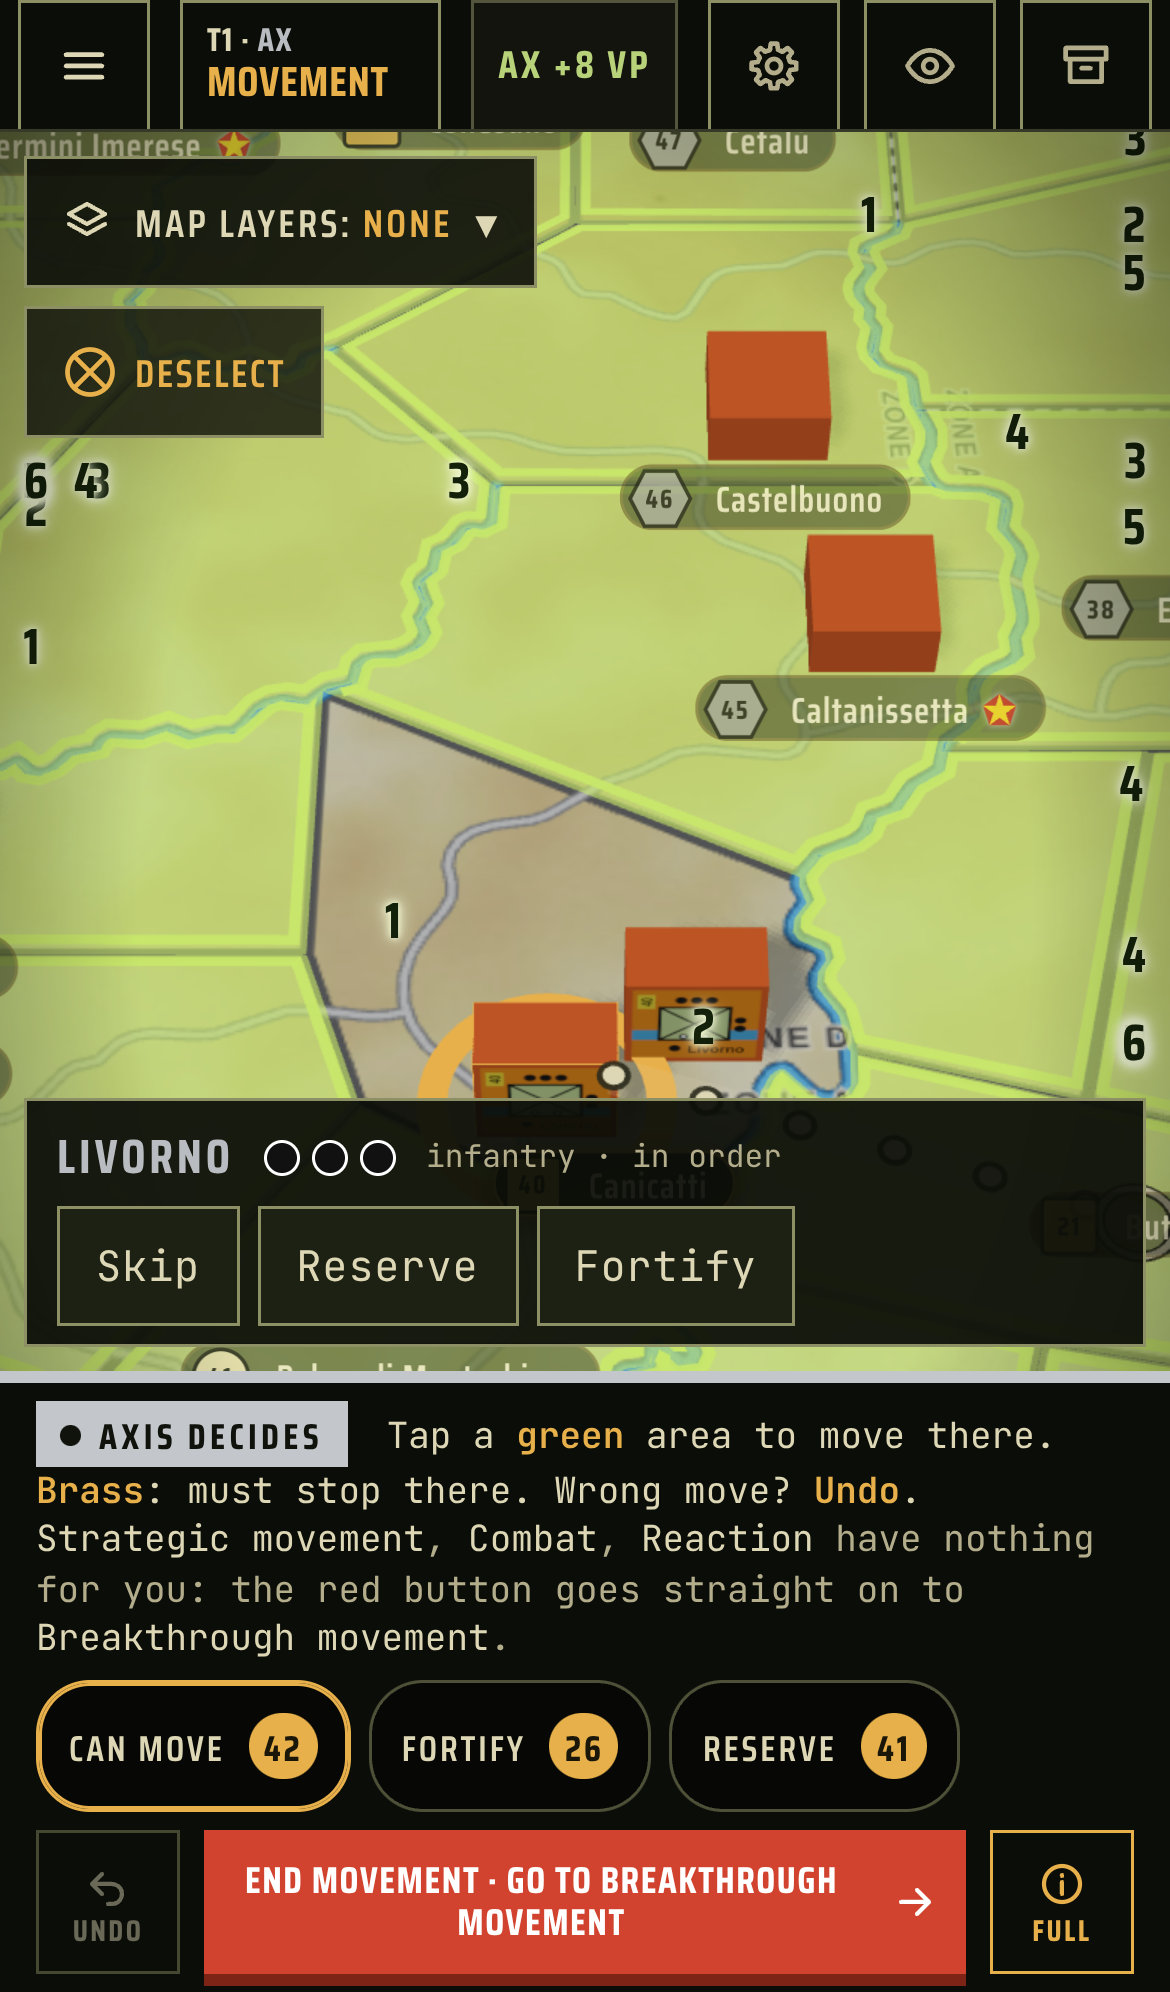
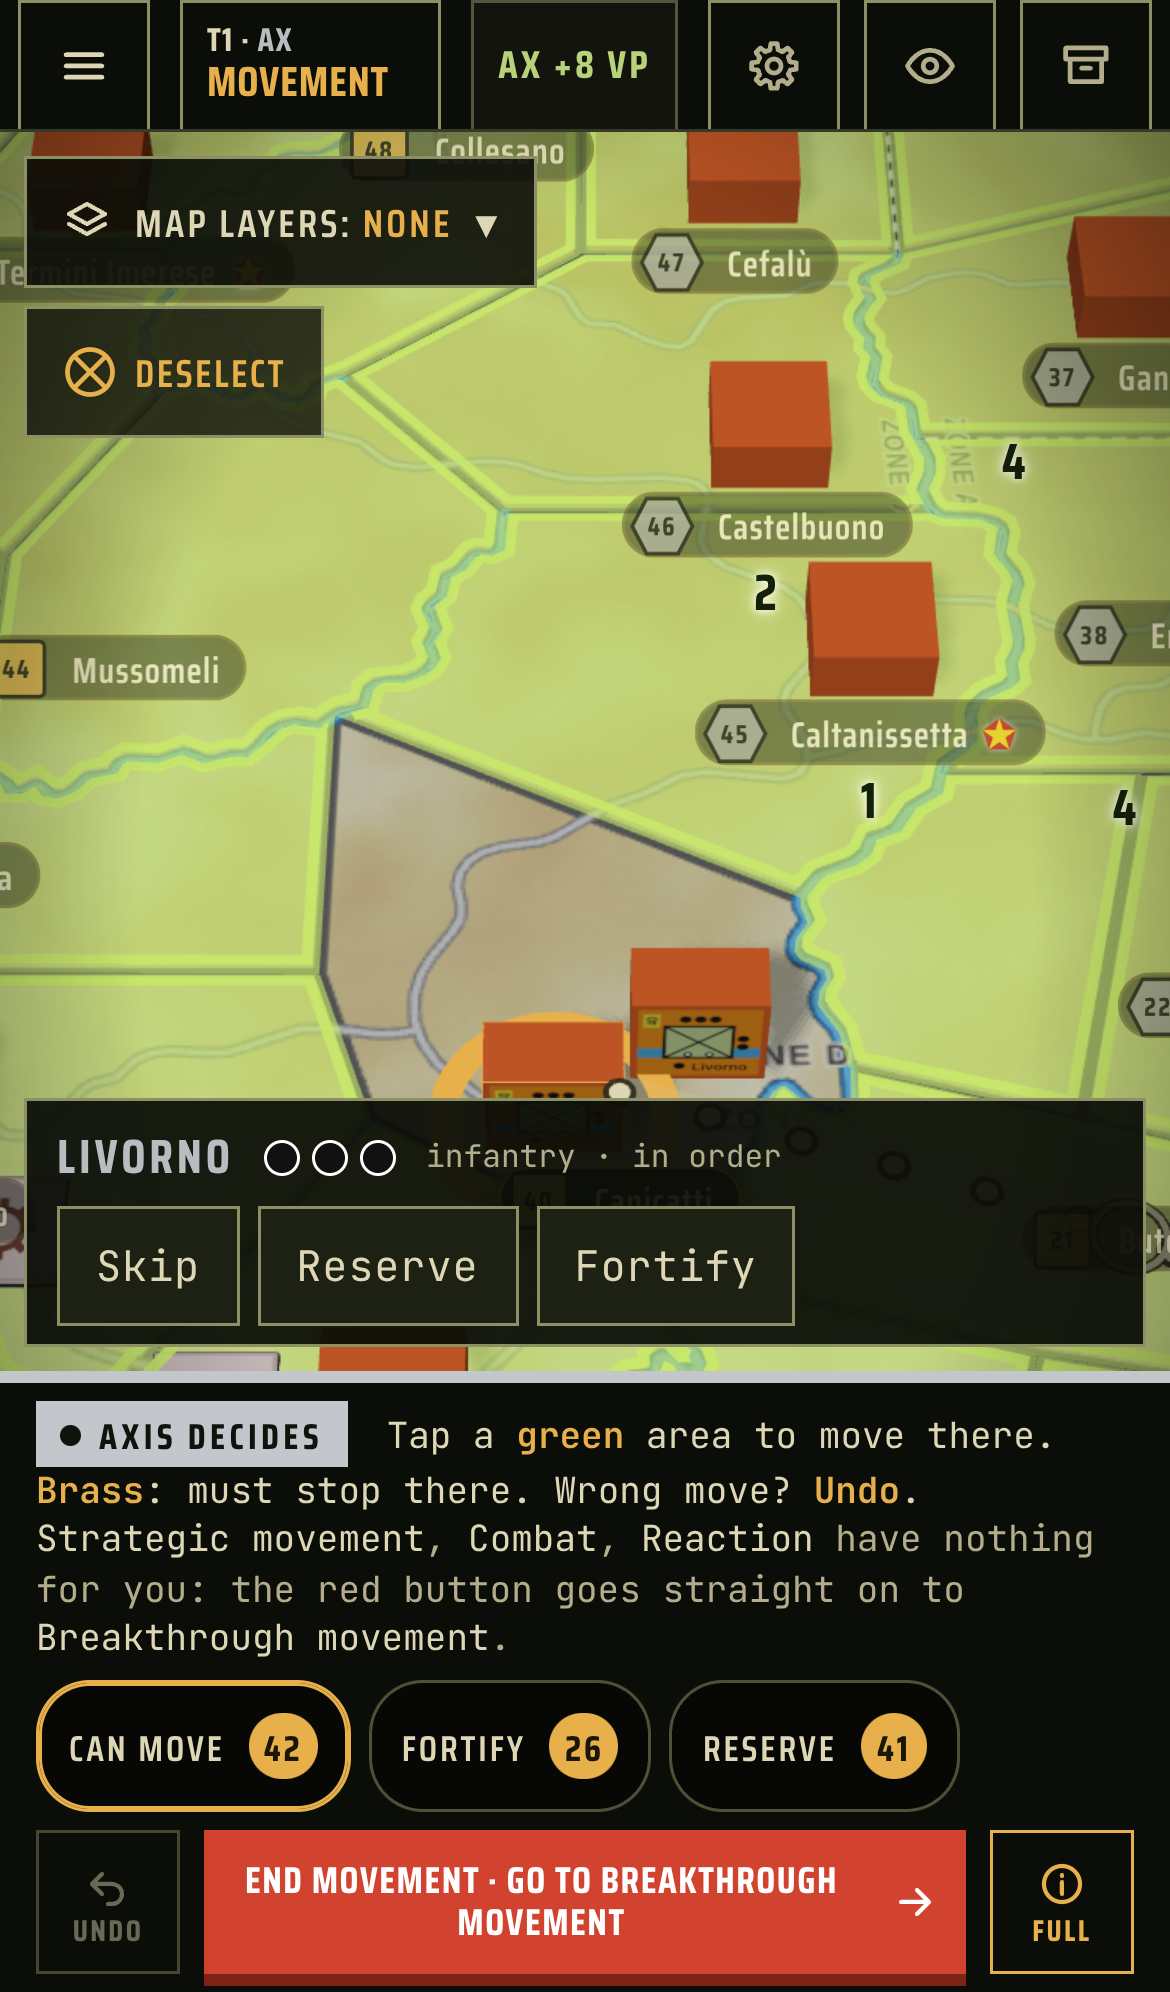
Phone move cost numbers: off-screen ones are not drawn, each sits in its own area under the pieces, never on a block or on another number; legend row for the cost (owner, 16 Nov)
Claude-Session: https://claude.ai/code/session_01ME3JNWPCjyD5txMyWoKnu2

diff --git a/web/src/map-marks.ts b/web/src/map-marks.ts
@@ -722,6 +722,13 @@ export function placeBadges() {
   const r = canvas.getBoundingClientRect(),
     v = new THREE.Vector3();
   badgeBoxes = [];
+  const pieceBoxes: { x0: number; x1: number; y0: number; y1: number }[] = [];
+  if (selUnit && innerWidth < 700)
+    for (const u of g.units) {
+      const ps = pieceScreen(u.id);
+      if (ps)
+        pieceBoxes.push({ x0: ps.x - r.left - ps.rad, x1: ps.x - r.left + ps.rad, y0: ps.y - r.top - ps.rad, y1: ps.y - r.top + ps.rad });
+    } // every block on the screen: a number never sits on one
   const dockBottom = (document.querySelector('#ui .mapdock')?.getBoundingClientRect().bottom ?? r.top) - r.top, // the Layer bar and map tools: move badges stay below them
     cardTop = innerWidth < 700 ? (document.querySelector('#ui .c-dispatch')?.getBoundingClientRect().top ?? r.bottom) - r.top : r.height, // and, on the phone, above the block card
     placed: { x0: number; x1: number; y0: number; y1: number }[] = [];
@@ -743,16 +750,49 @@ export function placeBadges() {
       hh = d.offsetHeight / 2 + 6,
       out = sx < hw || sx > r.width - hw || sy < hh || sy > r.height - hh;
     if (keep && innerWidth < 700) {
-      // phone: a plain number in its own area, a little above the label; one whose area is off the screen sits at the nearest edge, so none is dropped (owner, 16 Nov)
-      sy -= 12;
+      // phone: a plain number inside its own area, under the area's pieces like the labels, never on a block or on another number; an area off the screen shows its number when the player pans to it (owner, 16 Nov)
+      let by = sy - 12;
+      for (const u of g.units)
+        if (u.area === id) {
+          const ps = pieceScreen(u.id);
+          if (ps) by = Math.max(by, ps.y - r.top + ps.rad * 0.8 + 38);
+        }
+      sy = by;
       const dr = document.querySelector('#ui .mapdock')?.getBoundingClientRect(),
+        w = hw - 3,
+        h = hh - 3,
         top = hh + 4,
-        bot = cardTop - hh - 4;
-      sx = Math.min(r.width - hw, Math.max(hw, sx));
-      sy = Math.min(bot, Math.max(top, sy));
-      if (dr && sx - hw < dr.right - r.left && sy < dockBottom + hh) sy = dockBottom + hh; // not under the Layers and Deselect buttons
-      badgeBoxes.push({ x0: sx - hw, x1: sx + hw, y0: sy - hh, y1: sy + hh });
-      d.classList.toggle('edge', out);
+        bot = cardTop - hh - 4,
+        hit = (x: number, y: number) =>
+          badgeBoxes.some((o) => x - w < o.x1 && x + w > o.x0 && y - h < o.y1 && y + h > o.y0) ||
+          pieceBoxes.some((o) => x - w < o.x1 && x + w > o.x0 && y - h < o.y1 && y + h > o.y0);
+      let ok = !out && sx - hw >= 0 && sx + hw <= r.width;
+      if (ok) {
+        const y0 = sy,
+          x0 = sx;
+        ok = false;
+        for (const [dx, dy] of [
+          [0, 0],
+          [0, 2 * h],
+          [2 * w, 0],
+          [-2 * w, 0],
+          [0, 4 * h],
+          [2 * w, 2 * h],
+          [-2 * w, 2 * h],
+        ])
+          if (!hit(x0 + dx, y0 + dy)) {
+            sx = x0 + dx;
+            sy = y0 + dy;
+            ok = true;
+            break;
+          }
+      }
+      if (!ok || sy < top || sy > bot || (dr && sx - hw < dr.right - r.left && sy - hh < dockBottom)) {
+        d.style.display = 'none';
+        continue;
+      }
+      badgeBoxes.push({ x0: sx - w, x1: sx + w, y0: sy - h, y1: sy + h });
+      d.classList.remove('edge');
     } else if (keep) {
       const top = Math.max(hh, dockBottom + hh),
         bot = Math.min(r.height, cardTop) - hh;

diff --git a/web/src/map-legend.ts b/web/src/map-legend.ts
@@ -115,6 +115,10 @@ const swatch = (bg: string, border = '#0006') =>
 const GAME: Row[] = [
   [swatch('#c8e86a'), 'Your block can move there'],
   [swatch('#e7b04a'), 'Stop there, or selected'],
+  [
+    '<b style="color:#e7b04a">4</b>',
+    'Move cost in MP: brass = must stop there, a drop = uses fuel, ! = out of supply there (a badge on a desktop)',
+  ],
   [swatch('#d1432f'), 'A battle: must fight (filled) or may fight (outline)'],
   [
     `<svg viewBox="0 0 30 30" width="22" height="22" aria-hidden="true"><rect x="3" y="6" width="24" height="18" rx="3" fill="#d8d4c0" stroke="#0006" stroke-width="1.6"/><path d="M6 24L18 6M13 24L25 6M20 24L27 13.5" stroke="#23251a" stroke-width="3"/></svg>`,
